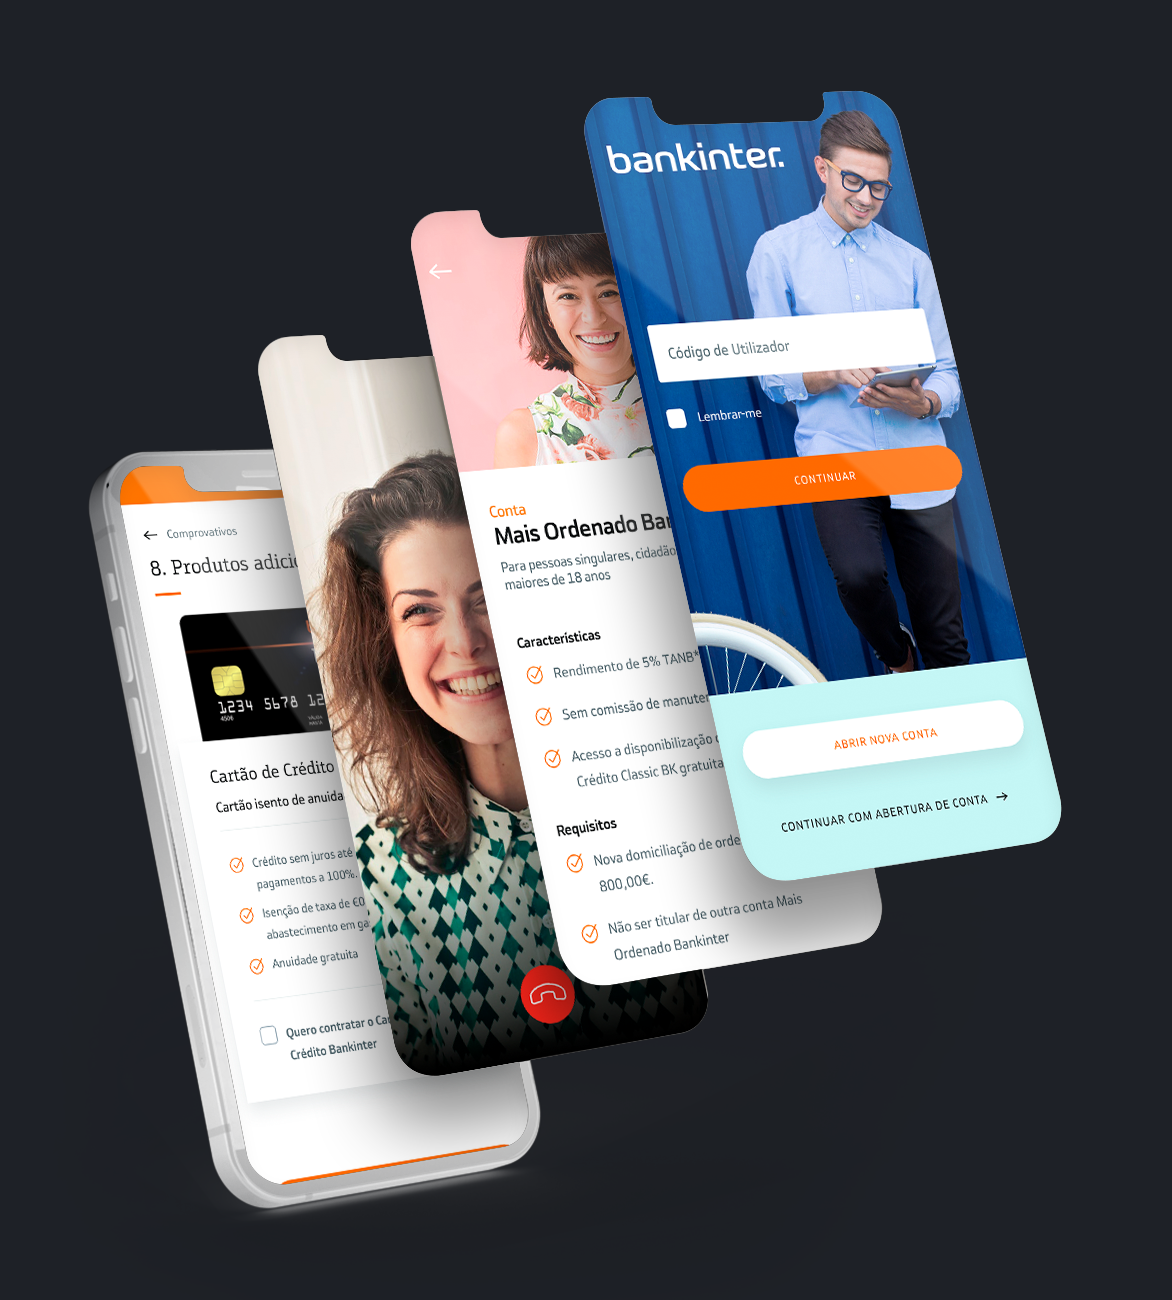
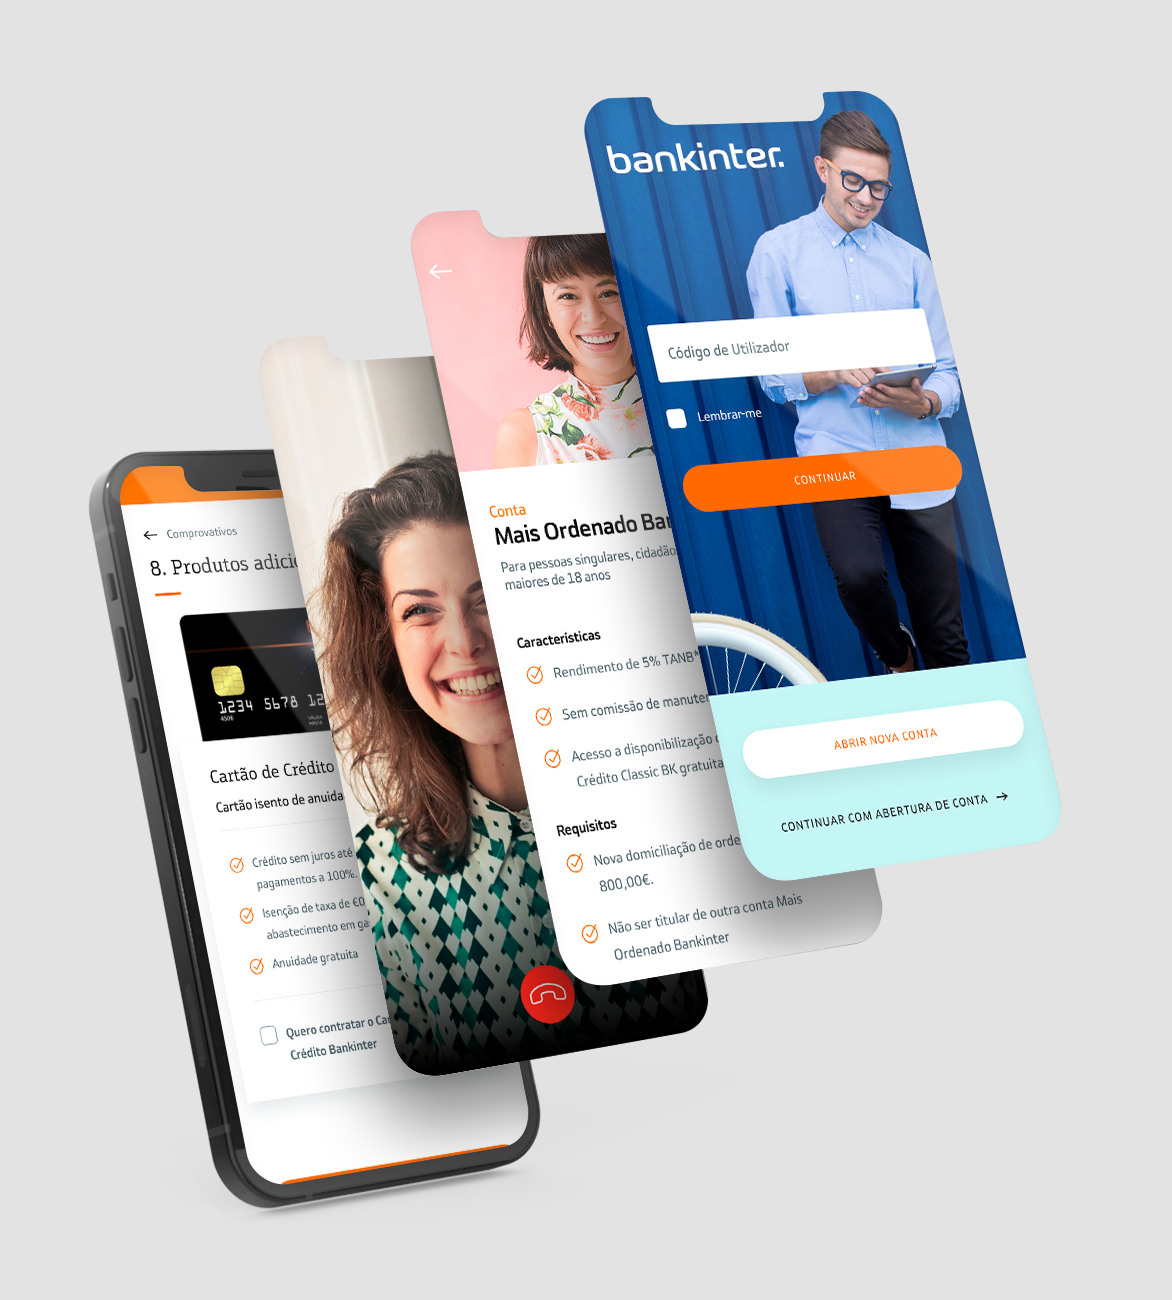
gp project added, design changes

diff --git a/src/index.scss b/src/index.scss
@@ -1,11 +1,15 @@
-$cor1: #1e2127;
-$cor2: #78938a;
-$cor3: #92ba92;
+$cor1: #05445E;
+$cor2: #189AB4;
+$cor3: #75E6DA;
 
 $white: #fff;
 
 
 $textShadow: 1px 1px 2px 2px rgba(0,0,0,0.1);
+
+$animetion: all 300ms ease;
+
+
 
 
 
@@ -16,6 +20,7 @@ body {
     sans-serif;
   -webkit-font-smoothing: antialiased;
   -moz-osx-font-smoothing: grayscale;
+  background-color: #e3e3e3
 }
 
 code {
@@ -26,7 +31,6 @@ code {
 
 * { font-family: 'Montserrat', sans-serif }
 
-body{ background-color: $cor1 ; padding-bottom: 8rem;}
 
 
 
@@ -38,28 +42,42 @@ body{ background-color: $cor1 ; padding-bottom: 8rem;}
 
 }
 
-.linkback{ color: $white; margin-top: 3rem;}
+
 .linkProject{  display: inline-block; margin:1rem 1rem -0.50rem 0; max-width: 250px;}
 
+.profilephoto{ margin-top: 4rem; margin-bottom: 2rem;
+display: block;}
 .superTitle{ 
     font-size: 1.4rem; 
-    color: $white; 
-    line-height: 1.6rem;
-    text-shadow: $textShadow;
+  font-weight: bolder;  
+    color: $cor1;
+}
+.superTitleBody{ 
+  font-size: 1.2rem; 
+  font-weight: 400;
+  color: $cor2;}
+  
+  .superTitleBody,
+  .superTitle{
+    margin-top: 0;
+    display: block;
+  line-height: 1.6rem;
     max-width: 730px;
-    font-weight: lighter;
-    margin-top: 9rem;
+  padding-right: 6rem;
+  width: 100%;
+  box-sizing: border-box;
 }
 
+
 .linkSocial{
-  color: #fff;
-  font-size: 1.4rem;
+  color: $cor2;
+  font-size: 1.6rem;
   display: inline-block;
   padding: 0 1rem 1rem 0;
 }
 
 .projects{ 
-  color: $white;
+  color: $cor1;
   font-size: 1.3rem;
   font-weight: bold;
 }
@@ -70,15 +88,21 @@ body{ background-color: $cor1 ; padding-bottom: 8rem;}
 
 /////////////////////
 /// 
-.projectBody h1, .projectBody h2, .projectBody h3{ color: $white; margin: 1.5rem auto 0; padding: 0;}
+.projectBody h1{ color: $cor1; margin: 1.5rem auto 0; padding: 0; font-size: 2.5rem; padding-right: 4rem;
+  display: block; width: 100%; box-sizing: border-box;}
+.projectBody h2, .projectBody h3{ color: $cor2; margin: 1.5rem auto 0; padding: 0;}
 /// 
+
+/// 
+/// 
+
 p{ 
-  color: #c6c6c6;
+  color: $cor1;
   display: block;
   max-width: 600px;
   margin: 0 0 1.5rem;
-  line-height: 1.15rem;
-  font-size: 0.8rem;
+  line-height: 1.75rem;
+  font-size: 1rem;
 }
 /// 
 /// 
@@ -86,16 +110,16 @@ p{
 /// 
 
 .bullet{
-  margin: 5rem auto 1rem;
+  margin: 3rem 0 1rem;
+  background-color: $cor3;
   display: block;
-  border: 1px solid rgba(255,255,255,0.6);
   border-radius: 100%;
   text-align: center;
   width: 60px;
   height: 60px;
   padding: 10px 10px 0;
-  color: $white;
-  font-weight: lighter;
+  color: $cor1;
+  font-weight: bolder;
   font-size: 2rem;
   box-sizing: border-box;
 }
@@ -121,5 +145,32 @@ p{
   box-shadow: $textShadow;
 }
 
+/////////////////////////////////////////////////////
+/// go back links
+.linkback{ color: $cor1; margin-top: 3rem;}
+.goBackBox{
+  text-align: center;
+  padding: 5rem 0 5rem;
+}
 
-.iframeSlideshare{}
+.goRealBack{
+  background-color: $cor3;
+  color: $cor1;
+  width: 75px;
+  height: 75px;
+  font-size: 1.5rem;
+  cursor: pointer;
+  border-radius: 100%;
+  display: block;
+  margin: 1rem auto;
+  text-align: center;
+  padding-top: 23px;
+  box-sizing: border-box;
+  transition: $animetion;
+}
+
+.goRealBack:hover{
+  background-color: $cor1;
+  color: $cor3;
+  transition: $animetion;
+}

diff --git a/src/pages/project_GazetaDoPovoCapas.js b/src/pages/project_GazetaDoPovoCapas.js
@@ -1,0 +1,46 @@
+import React from "react";
+import {BrowserRouter, Route, Routes, Link} from "react-router-dom";
+
+import Img1 from "../images/totvs/001.jpg";
+
+
+function GazetaDoPovoCapas(){
+    return(
+        <>
+            <div className='body projectBody'>
+                <Link to="/">
+                    <i className="fa-solid fa-arrow-left linkback"></i>
+                </Link>
+                <h1>Home Page Customization Research</h1>
+                <p>Try a new concept of customizable homepage, where users could get news according to the profile they get in a quiz. The idea was to create a user centered newspaper with news according to the user profile, like main business players such as Netflix or Spotify.</p>
+
+                <h2>Project scope:</h2>
+
+                <p>14 newspaper readers were selected according to their interaction and visits to Gazeta do Povo newspaper website. 12 interviews were done in a controlled environment, where 3 models of customizable homepages were presented to the user so they can navigate and test the concept. Inputs about the navigation and viability of the project were collected.</p>
+
+                <p>The results showed that newspaper users don’t like customizable homepages, because they think that they are missing the latest news due to the preference filters. </p>
+
+                <p>The homepage project was aborted after the results and a new project of news recommendation started.</p>
+                
+                <h3>My Role</h3>
+                <p>I acted as a UX Designer, helping to plan the research, apply user interviews and design user prototypes for testing.</p>
+                <br/>
+                <h3>Concept test aplication</h3>
+                <br/>
+                <iframe src="https://player.vimeo.com/video/145577188?h=4b571f5494&amp;badge=0&amp;autopause=0&amp;player_id=0&amp;app_id=58479" width="100%" height="600" frameborder="0" allow="autoplay; fullscreen; picture-in-picture" allowfullscreen title="QUIZ - Pontos positivos"></iframe>
+                <br/>
+                <h3>Concept test results</h3>
+                <br/>
+                <iframe src="https://www.slideshare.net/slideshow/embed_code/key/uKXgaWx4GiwTpP?hostedIn=slideshare&page=upload" width="100%" height="400" frameborder="0" marginwidth="0" marginheight="0" scrolling="no"></iframe>
+                
+                <div className="goBackBox">
+                    <Link to="/" className="goRealBack" title="Go back">
+                        <i className="fa-solid fa-arrow-left"></i>
+                    </Link> 
+                </div>
+            </div>      
+        </>
+    )
+}
+
+export default GazetaDoPovoCapas;

diff --git a/src/pages/homepage.js b/src/pages/homepage.js
@@ -7,13 +7,25 @@ import PjBk from "../images/link-bk.png";
 import PjSt from "../images/link-st.png";
 import PjTt from "../images/link-tt.png";
 import PjBp from "../images/link-bp.png";
+import PjGp from "../images/link-gp.png";
+import PjBvDev from "../images/link-bv-dev.png";
+
+import Me from "../images/me.png";
 
 function HomePage(){
     return(
         
         <div className='body'>
 
-        <SuperTitle value="Hi! I'm Daniel. I've been working as a Designer since 2007, and as a UX Designer since 2014. I'm also working as a Front-End developer, developing with HTML, CSS, Javascript ES6+, TypeScript, MySQL, PHP (wordpress) and ReactJS and Python. In the past years my main actuation was as a UX Designer and Researcher, applying design thinking methodologies for new and ongoing business." />
+        <img src={Me} alt="Daniel de Oliveira Carvalho photo" width="150" className="profilephoto" />
+        <SuperTitle value="Hi! I'm Daniel. I've been working as a Designer since 2007, and as a UX Designer since 2014." />
+
+        <h2 className="superTitleBody">
+        In the past years my main actuation was as a UX Designer and Researcher, applying design thinking methodologies for new and ongoing business.
+        </h2>
+        <h2 className="superTitleBody">
+        I'm also working as a Front-End developer, developing with HTML, CSS, Javascript ES6+, TypeScript, MySQL, PHP (wordpress) and ReactJS.
+        </h2>
         <a 
             className='linkSocial' 
             href='https://www.linkedin.com/in/daniel-de-o-carvalho/' 
@@ -50,7 +62,15 @@ function HomePage(){
                 <img src={PjBp} className="linkProject" />
             </Link>
 
+            <Link to="/gazetacapas">
+                <img src={PjGp} className="linkProject" />
+            </Link>
+            
+
             <h2 className='projects'>Developer Projects</h2>
+            <a href="https://blog.gazinatacado.com.br/" target="_blank">
+                <img src={PjBvDev} alt="Blog do Varejo - Desenvolvimento Wordpress" className="linkProject" />
+            </a>
         </div>
     )
 }

diff --git a/src/pages/project_Bankinter.js b/src/pages/project_Bankinter.js
@@ -67,7 +67,7 @@ function Bankinter(){
                 <div className="videoBox">
                     <iframe src="https://player.vimeo.com/video/363815768?h=5dfb581514&amp;badge=0&amp;autopause=0&amp;player_id=0&amp;app_id=58479" frameborder="0" allow="autoplay; fullscreen; picture-in-picture" allowfullscreen className="videoBk" title="V&amp;iacute;deo Bankinter"></iframe><script src="https://player.vimeo.com/api/player.js"></script>
                     </div>
-                <br/><br/><br/>
+                <br/><br/>
 
                 <Bullet value="6" />
                 <p>Design the created journeys and prototypes.</p>
@@ -80,6 +80,13 @@ function Bankinter(){
                         href="https://projects.invisionapp.com/share/MJ132HO6BAR3#/screens/470468030_01-0-1-CJ1_-_Login_App">
                             Check the full Prototype in Invision
                     </a>  
+                </div>
+
+
+                <div className="goBackBox">
+                    <Link to="/" className="goRealBack" title="Go back">
+                        <i className="fa-solid fa-arrow-left"></i>
+                    </Link> 
                 </div>
             </div>      
         </>

diff --git a/src/pages/project_BusinessPortugal.js b/src/pages/project_BusinessPortugal.js
@@ -32,7 +32,7 @@ function BusinessPortugal(){
                 <Link to="/">
                     <i className="fa-solid fa-arrow-left linkback"></i>
                 </Link>
-                <h1>Victor's Barber Shop</h1>
+                <h1>Victor's Barber Shop market study</h1>
                 <p>Victor's Barber Shop was a market study developed for Business Portugal in order to obtain a better understanding of the business environment in Lisbon for Victor, an entrepreneur looking to open his barber in Lisbon.</p>
 
                 <h2>Project scope:</h2>
@@ -49,6 +49,13 @@ function BusinessPortugal(){
                 <br/><br/><br/>
                 <iframe src="https://www.slideshare.net/slideshow/embed_code/key/njkD21tRfwj6Im" width="100%" height="456" frameborder="0" marginwidth="0" marginheight="0" scrolling="no" allowfullscreen> </iframe> 
                 
+
+                <div className="goBackBox">
+                    <Link to="/" className="goRealBack" title="Go back">
+                        <i className="fa-solid fa-arrow-left"></i>
+                    </Link> 
+                </div>
+
             </div>      
         </>
     )

diff --git a/src/index.js b/src/index.js
@@ -8,6 +8,7 @@ import Bankinter from './pages/project_Bankinter';
 import Santander from './pages/project_OpenHouse';
 import Totvs from './pages/project_Totvs';
 import BusinessPortugal from './pages/project_BusinessPortugal';
+import GazetaDoPovoCapas from './pages/project_GazetaDoPovoCapas';
 
 const root = ReactDOM.createRoot(document.getElementById('root'));
 root.render(
@@ -18,6 +19,7 @@ root.render(
             <Route path='/santander' element={<Santander />} />
             <Route path='/totvs' element={<Totvs />} />
             <Route path='/businessportugal' element={<BusinessPortugal />} />
+            <Route path='/gazetacapas' element={<GazetaDoPovoCapas />} />
         </Routes>
   </HashRouter>
 

diff --git a/src/pages/project_Totvs.js b/src/pages/project_Totvs.js
@@ -66,7 +66,11 @@ function Totvs(){
                 <img src={Img19} className="responsiveImage" /><br/><br/>
                 <img src={Img20} className="responsiveImage" /><br/><br/>
                 <img src={Img21} className="responsiveImage" /><br/><br/>
-                
+                <div className="goBackBox">
+                    <Link to="/" className="goRealBack" title="Go back">
+                        <i className="fa-solid fa-arrow-left"></i>
+                    </Link> 
+                </div>
             </div>      
         </>
     )

diff --git a/src/pages/project_OpenHouse.js b/src/pages/project_OpenHouse.js
@@ -36,6 +36,13 @@ function Santander(){
                             Check the full Prototype in MarvelApp
                     </a>  
                 </div>
+
+
+                <div className="goBackBox">
+                    <Link to="/" className="goRealBack" title="Go back">
+                        <i className="fa-solid fa-arrow-left"></i>
+                    </Link> 
+                </div>
             </div>      
         </>
     )
